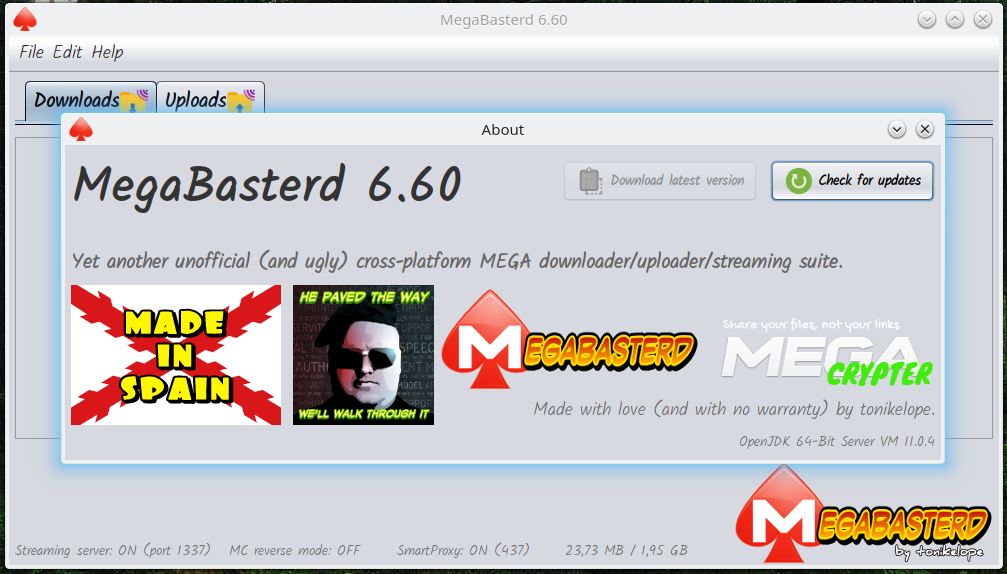
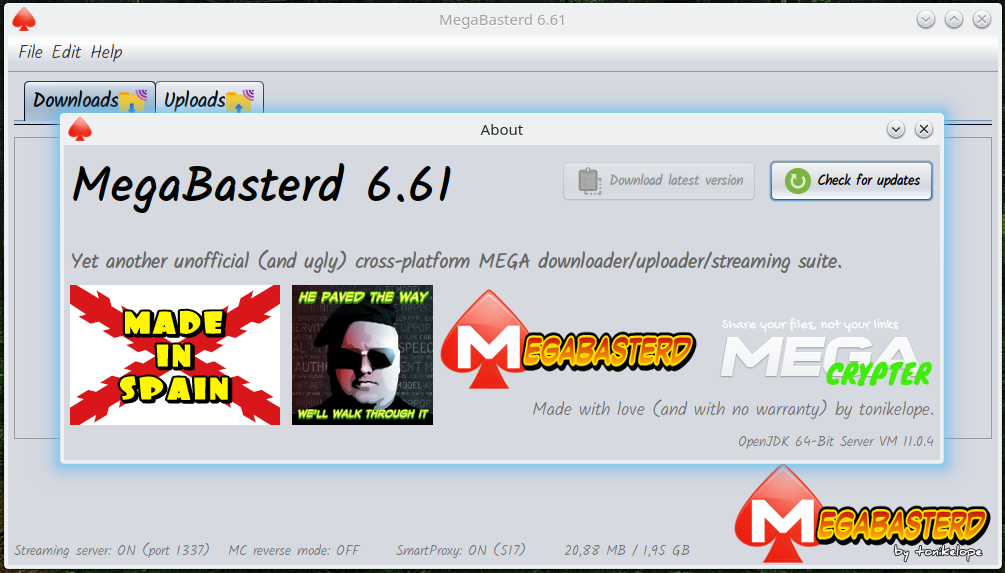
6.61
-Fix stop transferences fatal error

(cherry picked from commit e196cba42e984ffbe3d150cff20b2d71131ac013)

diff --git a/src/main/java/com/tonikelope/megabasterd/Upload.java b/src/main/java/com/tonikelope/megabasterd/Upload.java
@@ -60,7 +60,7 @@ public class Upload implements Transference, Runnable, SecureSingleThreadNotifia
     private UploadMACGenerator _mac_generator;
     private boolean _create_dir;
     private boolean _provision_ok;
-    private boolean _fatal_error;
+    private boolean _auto_retry_on_error;
     private String _file_link;
     private final MegaAPI _ma;
     private final String _file_name;
@@ -81,7 +81,7 @@ public class Upload implements Transference, Runnable, SecureSingleThreadNotifia
         _frozen = main_panel.isInit_paused();
         _provision_ok = true;
         _status_error = null;
-        _fatal_error = false;
+        _auto_retry_on_error = true;
         _canceled = false;
         _closed = false;
         _main_panel = main_panel;
@@ -116,7 +116,7 @@ public class Upload implements Transference, Runnable, SecureSingleThreadNotifia
         _notified = false;
         _provision_ok = true;
         _status_error = null;
-        _fatal_error = false;
+        _auto_retry_on_error = true;
         _canceled = false;
         _closed = false;
         _restart = true;
@@ -519,9 +519,9 @@ public class Upload implements Transference, Runnable, SecureSingleThreadNotifia
 
         _closed = true;
 
-        getMain_panel().getUpload_manager().getTransference_remove_queue().add(this);
+        _main_panel.getUpload_manager().getTransference_remove_queue().add(this);
 
-        getMain_panel().getUpload_manager().secureNotify();
+        _main_panel.getUpload_manager().secureNotify();
     }
 
     @Override
@@ -669,9 +669,14 @@ public class Upload implements Transference, Runnable, SecureSingleThreadNotifia
                     try {
                         _ul_url = _ma.initUploadFile(_file_name);
                     } catch (MegaAPIException ex) {
+
                         Logger.getLogger(Upload.class.getName()).log(Level.SEVERE, ex.getMessage());
-                        stopUploader(ex.getMessage());
-                        _fatal_error = true;
+
+                        if (Arrays.asList(FATAL_API_ERROR_CODES).contains(ex.getCode())) {
+                            stopUploader(ex.getMessage());
+                            _auto_retry_on_error = Arrays.asList(FATAL_API_ERROR_CODES_WITH_RETRY).contains(ex.getCode());
+                        }
+
                     }
 
                     if (_ul_url == null && !_exit) {
@@ -829,8 +834,11 @@ public class Upload implements Transference, Runnable, SecureSingleThreadNotifia
                                 upload_res = _ma.finishUploadFile(f.getName(), ul_key, node_key, _file_meta_mac, _completion_handler, _parent_node, i32a2bin(_ma.getMaster_key()), _root_node, _share_key);
                             } catch (MegaAPIException ex) {
                                 Logger.getLogger(Upload.class.getName()).log(Level.SEVERE, ex.getMessage());
-                                stopUploader(ex.getMessage());
-                                _fatal_error = true;
+
+                                if (Arrays.asList(FATAL_API_ERROR_CODES).contains(ex.getCode())) {
+                                    stopUploader(ex.getMessage());
+                                    _auto_retry_on_error = Arrays.asList(FATAL_API_ERROR_CODES_WITH_RETRY).contains(ex.getCode());
+                                }
                             }
 
                             if (upload_res == null && !_exit) {
@@ -961,19 +969,16 @@ public class Upload implements Transference, Runnable, SecureSingleThreadNotifia
         swingInvoke(() -> {
             getView().getClose_button().setVisible(true);
 
-            if (_status_error == null && !_canceled) {
-
-                getView().getClose_button().setIcon(new javax.swing.ImageIcon(getClass().getResource("/images/icons8-ok-30.png")));
-
-            }
-
-            if (_canceled || _status_error == null) {
+            if (_status_error != null || _canceled) {
 
                 getView().getRestart_button().setVisible(true);
+
+            } else {
+                getView().getClose_button().setIcon(new javax.swing.ImageIcon(getClass().getResource("/images/icons8-ok-30.png")));
             }
         });
 
-        if (_status_error != null && !_fatal_error) {
+        if (_status_error != null && _auto_retry_on_error) {
             THREAD_POOL.execute(() -> {
                 for (int i = 3; !_closed && i > 0; i--) {
                     final int j = i;

diff --git a/src/main/java/com/tonikelope/megabasterd/Download.java b/src/main/java/com/tonikelope/megabasterd/Download.java
@@ -84,6 +84,7 @@ public class Download implements Transference, Runnable, SecureSingleThreadNotif
     private String _last_download_url;
     private boolean _provision_ok;
     private boolean _finishing_download;
+    private boolean _auto_retry_on_error;
     private int _paused_workers;
     private File _file;
     private boolean _checking_cbc;
@@ -96,6 +97,7 @@ public class Download implements Transference, Runnable, SecureSingleThreadNotif
     private final MegaAPI _ma;
     private volatile boolean _canceled;
     private volatile boolean _turbo;
+    private volatile boolean _closed;
 
     public Download(MainPanel main_panel, MegaAPI ma, String url, String download_path, String file_name, String file_key, Long file_size, String file_pass, String file_noexpire, boolean use_slots, boolean restart, String custom_chunks_dir) {
 
@@ -104,10 +106,12 @@ public class Download implements Transference, Runnable, SecureSingleThreadNotif
         _frozen = main_panel.isInit_paused();
         _last_chunk_id_dispatched = 0L;
         _canceled = false;
+        _auto_retry_on_error = true;
         _status_error = null;
         _retrying_request = false;
         _checking_cbc = false;
         _finishing_download = false;
+        _closed = false;
         _pause = false;
         _exit = false;
         _last_download_url = null;
@@ -148,6 +152,8 @@ public class Download implements Transference, Runnable, SecureSingleThreadNotif
         _canceled = false;
         _status_error = null;
         _retrying_request = false;
+        _auto_retry_on_error = true;
+        _closed = false;
         _checking_cbc = false;
         _finishing_download = false;
         _pause = false;
@@ -476,6 +482,8 @@ public class Download implements Transference, Runnable, SecureSingleThreadNotif
 
     @Override
     public void close() {
+
+        _closed = true;
 
         _main_panel.getDownload_manager().getTransference_remove_queue().add(this);
 
@@ -851,6 +859,26 @@ public class Download implements Transference, Runnable, SecureSingleThreadNotif
                 getView().getClose_button().setIcon(new javax.swing.ImageIcon(getClass().getResource("/images/icons8-ok-30.png")));
             }
         });
+
+        if (_status_error != null && _auto_retry_on_error) {
+            THREAD_POOL.execute(() -> {
+                for (int i = 3; !_closed && i > 0; i--) {
+                    final int j = i;
+                    swingInvoke(() -> {
+                        getView().getRestart_button().setText("Restart (" + String.valueOf(j) + " secs...)");
+                    });
+                    try {
+                        Thread.sleep(1000);
+                    } catch (InterruptedException ex) {
+                        Logger.getLogger(Upload.class.getName()).log(Level.SEVERE, ex.getMessage());
+                    }
+                }
+                if (!_closed) {
+                    LOG.log(Level.INFO, "{0} Downloader {1} AUTO RESTARTING DOWNLOAD...", new Object[]{Thread.currentThread().getName(), getFile_name()});
+                    restart();
+                }
+            });
+        }
 
         LOG.log(Level.INFO, "{0}{1} Downloader: bye bye", new Object[]{Thread.currentThread().getName(), _file_name});
     }
@@ -1343,9 +1371,11 @@ public class Download implements Transference, Runnable, SecureSingleThreadNotif
 
                 error_code = ex.getCode();
 
-                if (Arrays.asList(FATAL_ERROR_API_CODES).contains(error_code)) {
+                if (Arrays.asList(FATAL_API_ERROR_CODES).contains(error_code)) {
 
                     stopDownloader(ex.getMessage() + " " + truncateText(link, 80));
+
+                    _auto_retry_on_error = Arrays.asList(FATAL_API_ERROR_CODES_WITH_RETRY).contains(error_code);
 
                 } else {
 
@@ -1425,9 +1455,11 @@ public class Download implements Transference, Runnable, SecureSingleThreadNotif
 
                 error_code = ex.getCode();
 
-                if (Arrays.asList(FATAL_ERROR_API_CODES).contains(error_code)) {
+                if (Arrays.asList(FATAL_API_ERROR_CODES).contains(error_code)) {
 
                     stopDownloader(ex.getMessage() + " " + truncateText(link, 80));
+
+                    _auto_retry_on_error = Arrays.asList(FATAL_API_ERROR_CODES_WITH_RETRY).contains(error_code);
 
                 } else {
 

diff --git a/src/main/java/com/tonikelope/megabasterd/MegaAPI.java b/src/main/java/com/tonikelope/megabasterd/MegaAPI.java
@@ -31,7 +31,7 @@ public class MegaAPI implements Serializable {
     public static final String API_URL = "https://g.api.mega.co.nz";
     public static final String API_KEY = null;
     public static final int REQ_ID_LENGTH = 10;
-    public static final Integer[] MEGA_ERROR_EXCEPTION_CODES = {-2, -5, -6, -8, -9, -10, -11, -12, -13, -14, -15, -16, -17, -26};
+    public static final Integer[] MEGA_ERROR_NO_EXCEPTION_CODES = {-1, -3};
     public static final int PBKDF2_ITERATIONS = 100000;
     public static final int PBKDF2_OUTPUT_BIT_LENGTH = 256;
     private static final Logger LOG = Logger.getLogger(MegaAPI.class.getName());
@@ -478,7 +478,7 @@ public class MegaAPI implements Serializable {
 
             if (!empty_response && mega_error != 0 && http_error != 509) {
 
-                if (Arrays.asList(MEGA_ERROR_EXCEPTION_CODES).contains(mega_error)) {
+                if (!Arrays.asList(MEGA_ERROR_NO_EXCEPTION_CODES).contains(mega_error)) {
 
                     throw new MegaAPIException(mega_error);
                 }

diff --git a/src/main/java/com/tonikelope/megabasterd/Transference.java b/src/main/java/com/tonikelope/megabasterd/Transference.java
@@ -17,7 +17,8 @@ public interface Transference {
     boolean LIMIT_TRANSFERENCE_SPEED_DEFAULT = false;
     int MAX_TRANSFERENCE_SPEED_DEFAULT = 5;
     int MAX_WAIT_WORKERS_SHUTDOWN = 15;
-    Integer[] FATAL_ERROR_API_CODES = {-2, -8, -9, -10, -11, -12, -13, -14, -15, -16, 22, 23, 24, 25};
+    Integer[] FATAL_API_ERROR_CODES = {-2, -4, -8, -14, -15, -16, -17, 22, 23, 24};
+    Integer[] FATAL_API_ERROR_CODES_WITH_RETRY = {-4};
 
     void start();
 

diff --git a/src/main/java/com/tonikelope/megabasterd/MainPanel.java b/src/main/java/com/tonikelope/megabasterd/MainPanel.java
@@ -53,7 +53,7 @@ import javax.swing.UIManager;
  */
 public final class MainPanel {
 
-    public static final String VERSION = "6.60";
+    public static final String VERSION = "6.61";
     public static final int THROTTLE_SLICE_SIZE = 16 * 1024;
     public static final int DEFAULT_BYTE_BUFFER_SIZE = 16 * 1024;
     public static final int STREAMER_PORT = 1337;
